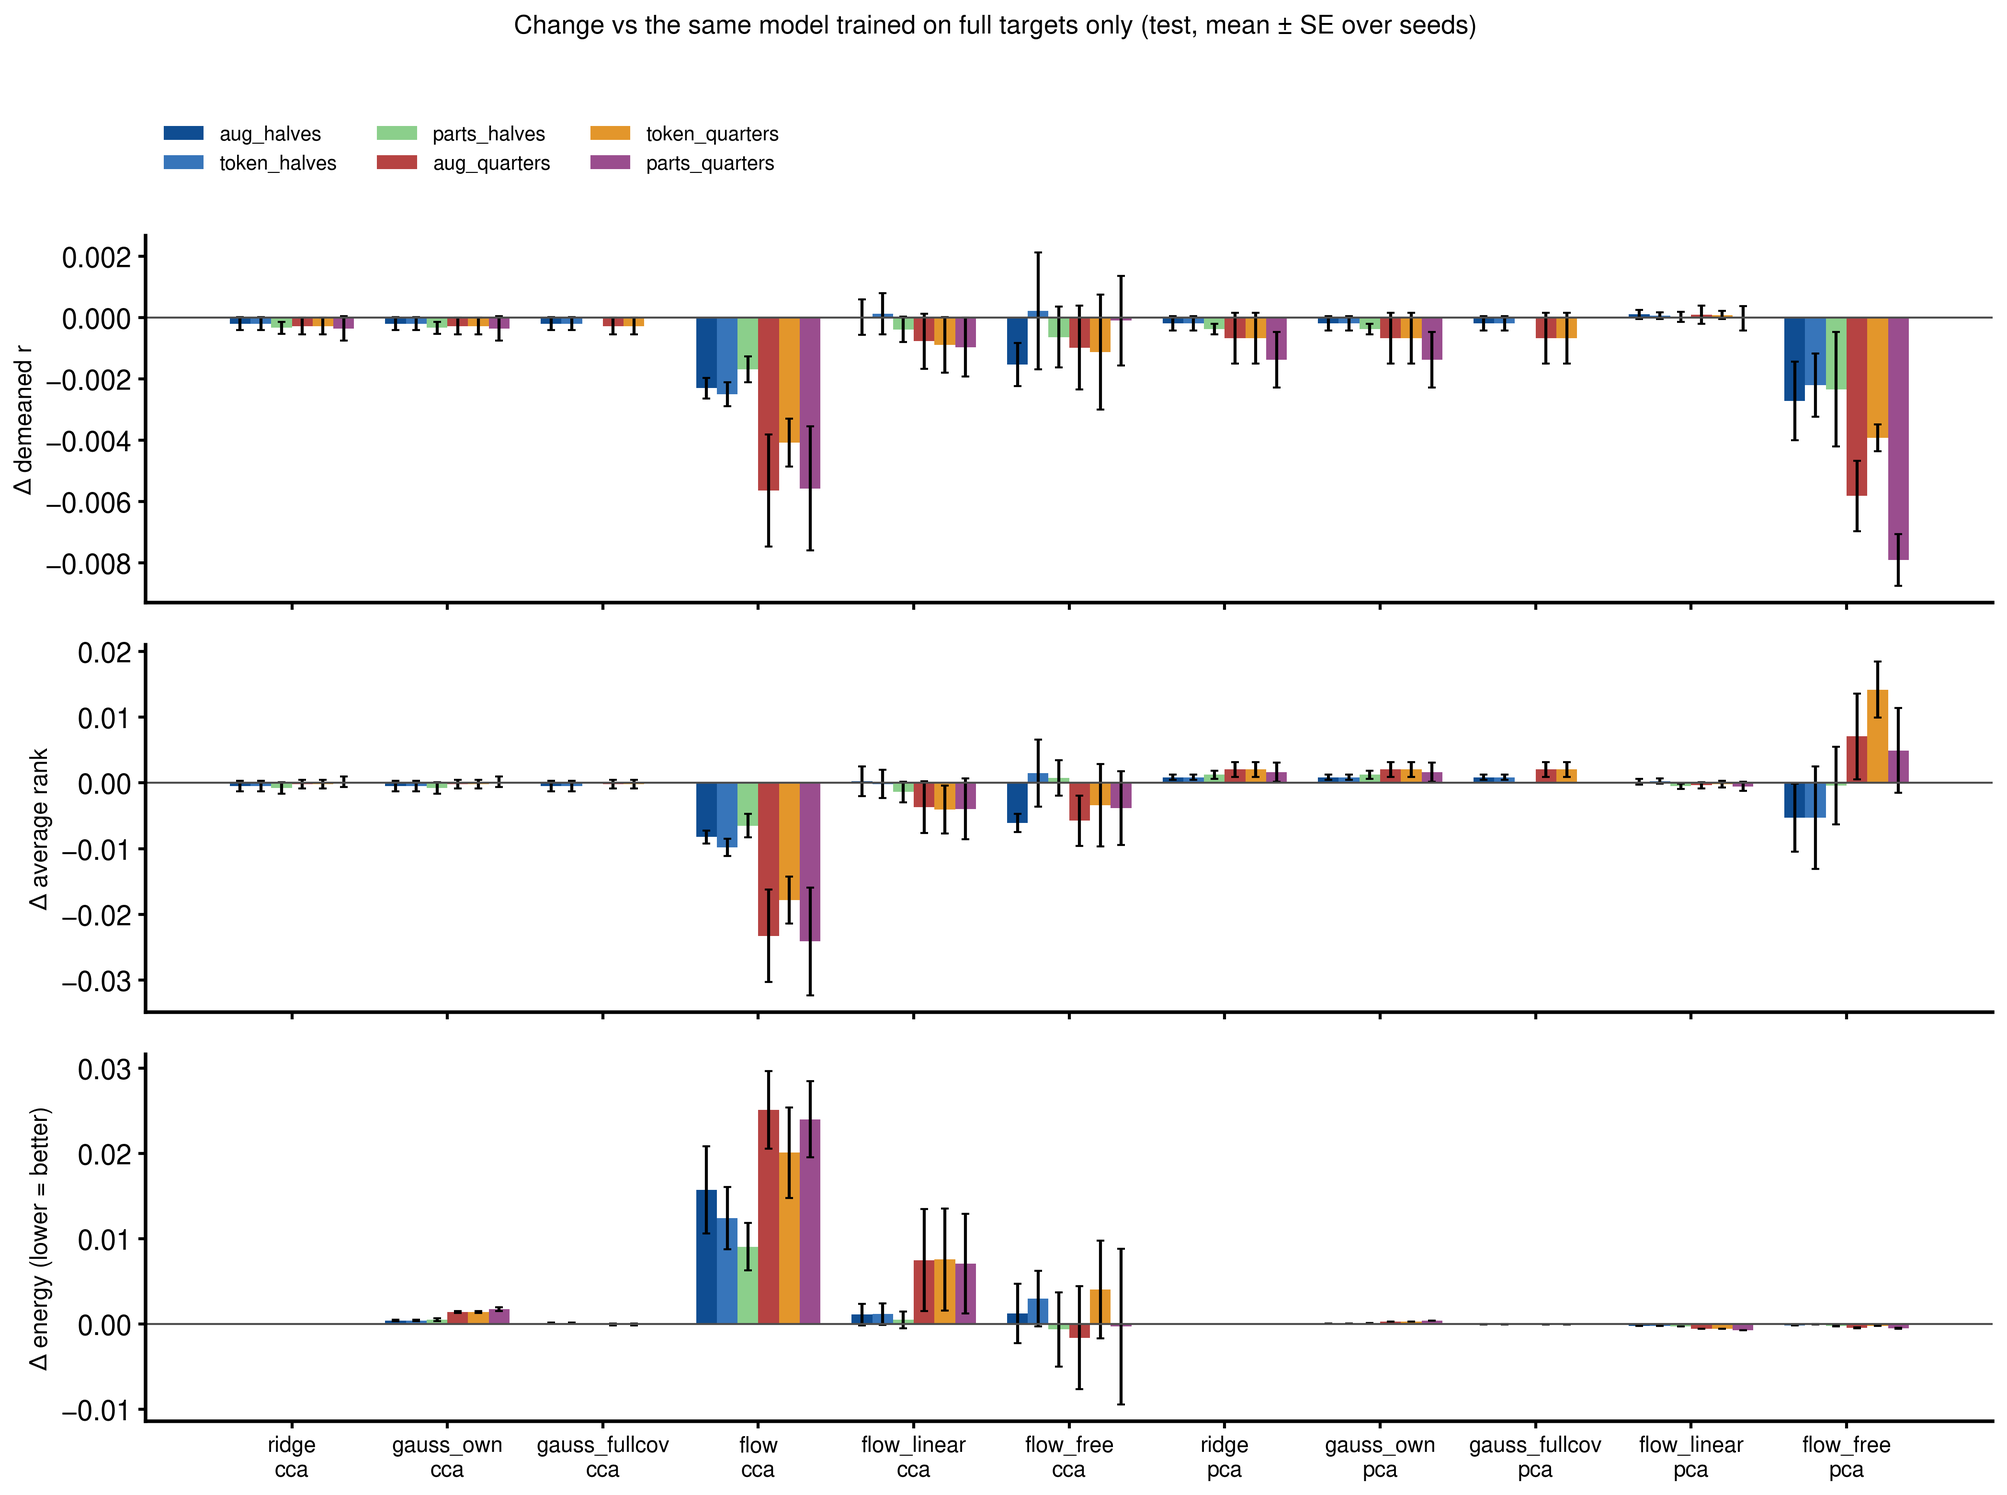
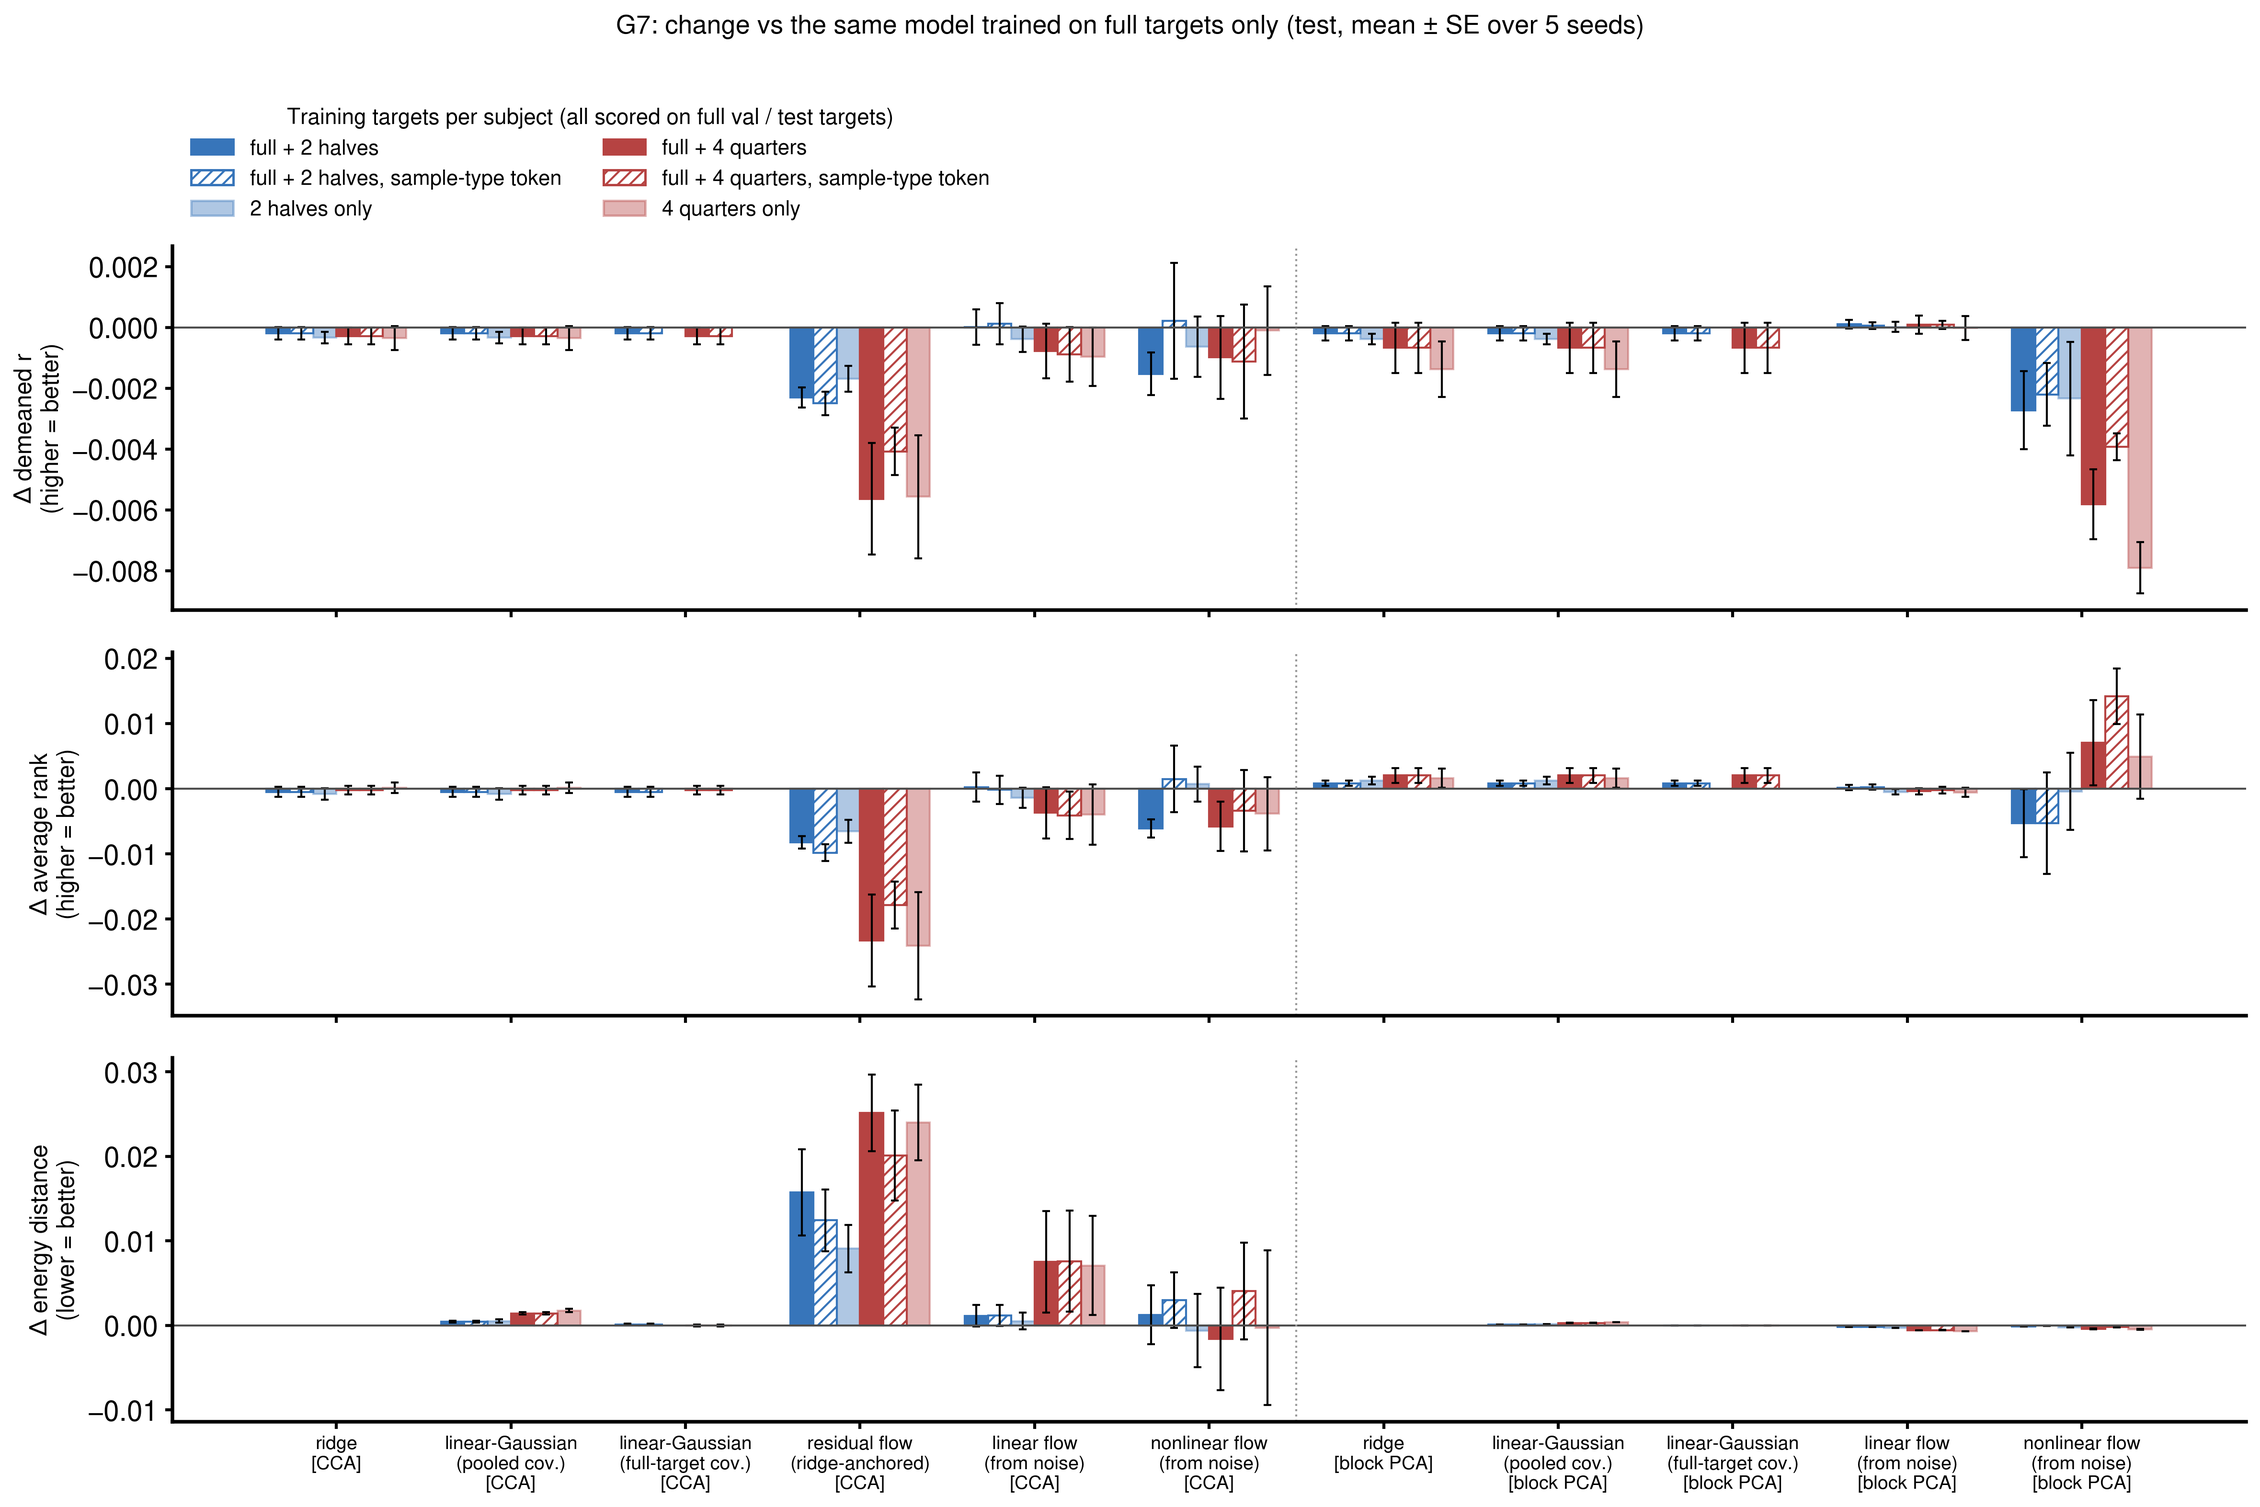
windowed_fc_gain G7 figures: plain-language arm legend, absolute-value and per-condition figures

diff --git a/scripts/experiments/windowed_fc_gain/analyze_g7.py b/scripts/experiments/windowed_fc_gain/analyze_g7.py
@@ -8,7 +8,8 @@ seeds. G7 passes if an augmented arm of some model has a supported gain over bot
 baseline on a primary metric (demeaned r, average rank, energy) without a supported loss on the other two.
 Regression check: each flow's `none` arm vs its E2.1 record.
 
-    python scripts/experiments/windowed_fc_gain/analyze_g7.py     # -> tables/g7_*.csv, tables/g7_summary.md, figures/fig_g7_*.png
+    python scripts/experiments/windowed_fc_gain/analyze_g7.py     # -> tables/g7_*.csv, tables/g7_summary.md,
+        figures/fig_g7_deltas.png (vs full targets only), fig_g7_absolute.png, fig_g7_conditions.png (per condition)
 """
 import glob
 import json
@@ -96,6 +97,156 @@ def regression_check(df):
     return pd.DataFrame(rows)
 
 
+ARM_LABEL = {"none": "full targets only (= E2.1)",
+             "aug_halves": "full + 2 halves", "token_halves": "full + 2 halves, sample-type token", "parts_halves": "2 halves only",
+             "aug_quarters": "full + 4 quarters", "token_quarters": "full + 4 quarters, sample-type token",
+             "parts_quarters": "4 quarters only"}
+MODEL_LABEL = {"ridge": "ridge", "gauss_own": "linear-Gaussian\n(pooled cov.)", "gauss_fullcov": "linear-Gaussian\n(full-target cov.)",
+               "flow": "residual flow\n(ridge-anchored)", "flow_linear": "linear flow\n(from noise)",
+               "flow_free": "nonlinear flow\n(from noise)"}
+ROUTE_LABEL = {"cca": "CCA latent (32-d)", "pca": "block FC PCA codes (256)"}
+ROUTE_SHORT = {"cca": "CCA", "pca": "block PCA"}
+CONDITIONS = ["rest", "emotion", "gambling", "language", "motor", "relational", "social", "wm"]
+
+
+def arm_style(arm):
+    """Colour by part level (halves blue, quarters red), variant by fill: solid = full + parts, hatched = with the
+    sample-type token, light = parts only; full targets only grey."""
+    if arm == "none":
+        return dict(facecolor="#BDBDBD", edgecolor="#6E6E6E")
+    base = "#3775BA" if arm.endswith("halves") else "#B64342"
+    if arm.startswith("parts"):
+        return dict(facecolor=base, alpha=0.4, edgecolor=base)
+    if arm.startswith("token"):
+        return dict(facecolor="white", edgecolor=base, hatch="////")
+    return dict(facecolor=base, edgecolor=base)
+
+
+def arm_legend(ax, arms, **kw):
+    import matplotlib.patches as mpatches
+    handles = [mpatches.Patch(label=ARM_LABEL[a], linewidth=1.2, **arm_style(a)) for a in arms]
+    return ax.legend(handles=handles, **kw)
+
+
+def collect_conditions():
+    """Per (model, route, arm, seed, condition) test demeaned r."""
+    out = []
+    for f in sorted(RES.glob("closed_seed*.json")):
+        r = json.loads(f.read_text())
+        out += [dict(model="ridge", route=x["route"], arm=x["arm"], seed=r["seed"], condition=x["condition"],
+                     demeaned_pearson=x["demeaned_pearson"]) for x in r["rows"] if x["split"] == "test"]
+    for f in sorted(RES.glob("flow*_seed*.json")):
+        r = json.loads(f.read_text())
+        for arm, a in r["arms"].items():
+            out += [dict(model=r["model"], route=r["route"], arm=arm, seed=r["seed"], condition=x["condition"],
+                         demeaned_pearson=x["demeaned_pearson"]) for x in a["rows"] if x["split"] == "test"]
+    return pd.DataFrame(out)
+
+
+def figures(df, own, plt, rc):
+    arms = [a for a in ARMS if a != "none"]
+    with plt.rc_context(rc):
+        # 1. change vs none
+        fams = [(m, r) for r in ("cca", "pca") for m in ("ridge", "gauss_own", "gauss_fullcov", "flow", "flow_linear", "flow_free")
+                if ((own.model == m) & (own.route == r)).any()]
+        mets = [("demeaned_pearson", "Δ demeaned r\n(higher = better)"), ("avg_rank", "Δ average rank\n(higher = better)"),
+                ("energy", "Δ energy distance\n(lower = better)")]
+        fig, axes = plt.subplots(len(mets), 1, figsize=(max(12, 1.45 * len(fams)), 3.5 * len(mets)), sharex=True)
+        w = 0.8 / len(arms)
+        for ax, (k, lab) in zip(axes, mets):
+            for j, arm in enumerate(arms):
+                for i, (m, r) in enumerate(fams):
+                    o = own[(own.model == m) & (own.route == r) & (own.arm == arm) & (own.metric == k)]
+                    if len(o):
+                        ax.bar(i + (j - (len(arms) - 1) / 2) * w, o.delta.iloc[0], w, yerr=o.se.iloc[0], capsize=2,
+                               linewidth=1.0, error_kw=dict(lw=1), **arm_style(arm))
+            ax.axhline(0, color="0.3", lw=1)
+            ax.set_ylabel(lab, fontsize=12)
+            for i in range(1, len(fams)):
+                if fams[i][1] != fams[i - 1][1]:
+                    ax.axvline(i - 0.5, color="0.6", lw=1, ls=":")
+        axes[-1].set_xticks(range(len(fams)), [f"{MODEL_LABEL[m]}\n[{ROUTE_SHORT[r]}]" for m, r in fams], fontsize=9.5)
+        arm_legend(axes[0], arms, ncol=2, fontsize=10.5, loc="lower left", bbox_to_anchor=(0, 1.02),
+                   title="Training targets per subject (all scored on full val / test targets)", title_fontsize=11)
+        fig.suptitle("G7: change vs the same model trained on full targets only (test, mean ± SE over 5 seeds)", fontsize=13, y=1.0)
+        fig.tight_layout()
+        fig.savefig(FIG / "fig_g7_deltas.png", dpi=300, bbox_inches="tight", facecolor="white")
+        plt.close(fig)
+
+        # 2. absolute values, linear baseline as reference
+        panels = [("demeaned_pearson", "test demeaned r\n(mean of 8 conditions)", ["ridge", "flow", "flow_linear", "flow_free"], "ridge"),
+                  ("avg_rank", "test average rank\n(chance 0.5)", ["ridge", "flow", "flow_linear", "flow_free"], "ridge"),
+                  ("energy", "energy distance to the\nsubject's 8 encodings (lower = better)",
+                   ["gauss_own", "gauss_fullcov", "flow", "flow_linear", "flow_free"], "gauss_own")]
+        fig, axes = plt.subplots(2, 3, figsize=(22, 10.5))
+        w = 0.85 / len(ARMS)
+        for ri, route in enumerate(("cca", "pca")):
+            for ci, (k, lab, models, ref) in enumerate(panels):
+                ax = axes[ri, ci]
+                models = [m for m in models if ((df.model == m) & (df.route == route)).any()]
+                vals = []
+                for i, m in enumerate(models):
+                    for j, arm in enumerate(ARMS):
+                        g = df[(df.model == m) & (df.route == route) & (df.arm == arm)][k].dropna()
+                        if g.empty:
+                            continue
+                        x = i + (j - (len(ARMS) - 1) / 2) * w
+                        ax.bar(x, g.mean(), w, linewidth=1.0, **arm_style(arm))
+                        ax.scatter(np.full(len(g), x), g, s=6, color="black", zorder=3)
+                        vals += list(g)
+                b = df[(df.model == ref) & (df.route == route) & (df.arm == "none")][k].mean()
+                ax.axhline(b, color="black", ls="--", lw=1.2, label=f"linear baseline ({MODEL_LABEL[ref].split(chr(10))[0]}, full targets)")
+                lo, hi = min(vals + [b]), max(vals + [b])
+                pad = (hi - lo) * 0.12 or 0.01
+                ax.set_ylim(lo - pad, hi + pad)
+                ax.set_xticks(range(len(models)), [MODEL_LABEL[m] for m in models], fontsize=10)
+                ax.set_ylabel(lab, fontsize=11)
+                if ci == 0:
+                    ax.set_title(ROUTE_LABEL[route], loc="left", fontsize=13, fontweight="bold")
+                ax.legend(fontsize=9, loc="best")
+        arm_legend(axes[0, 0], ARMS, ncol=4, fontsize=10.5, loc="lower left", bbox_to_anchor=(0, 1.12),
+                   title="Training targets per subject (dots: seeds; y-axes zoomed)", title_fontsize=11)
+        axes[0, 0].add_artist(axes[0, 0].get_legend())
+        fig.suptitle("G7: SC → FC latent models trained with part samples, absolute test values", fontsize=14, y=1.06)
+        fig.tight_layout()
+        fig.savefig(FIG / "fig_g7_absolute.png", dpi=300, bbox_inches="tight", facecolor="white")
+        plt.close(fig)
+
+        # 3. per-condition change in demeaned r (heatmap)
+        cd = collect_conditions()
+        if cd.empty:
+            return
+        base = cd[cd.arm == "none"].set_index(["model", "route", "seed", "condition"]).demeaned_pearson
+        cd = cd[cd.arm != "none"].copy()
+        cd["delta"] = cd.demeaned_pearson.to_numpy() - base.reindex(pd.MultiIndex.from_frame(cd[["model", "route", "seed", "condition"]])).to_numpy()
+        fig, axes = plt.subplots(1, 2, figsize=(17, 12), sharey=True, gridspec_kw=dict(wspace=0.04))
+        vmax = float(np.nanpercentile(np.abs(cd.groupby(["model", "route", "arm", "condition"]).delta.mean()), 98))
+        keys = [(m, arm) for m in ("ridge", "flow", "flow_linear", "flow_free") for arm in arms]
+        labels = [f"{MODEL_LABEL[m].replace(chr(10), ' ')} · {ARM_LABEL[arm]}" for m, arm in keys]
+        for ax, route in zip(axes, ("cca", "pca")):
+            M = np.full((len(keys), len(CONDITIONS)), np.nan)
+            for i, (m, arm) in enumerate(keys):
+                g = cd[(cd.model == m) & (cd.route == route) & (cd.arm == arm)]
+                if len(g):
+                    M[i] = g.groupby("condition").delta.mean().reindex(CONDITIONS).to_numpy()
+            ax.imshow(np.isnan(M)[..., None] * np.array([0.92, 0.92, 0.92]) + ~np.isnan(M)[..., None], aspect="auto")
+            im = ax.imshow(np.ma.masked_invalid(M), cmap="RdBu", vmin=-vmax, vmax=vmax, aspect="auto")
+            for (i, j), v in np.ndenumerate(M):
+                ax.text(j, i, "n/a" if np.isnan(v) else f"{v * 1000:+.1f}", ha="center", va="center", fontsize=7.5,
+                        color="0.5" if np.isnan(v) else ("white" if abs(v) > 0.6 * vmax else "black"))
+            ax.set_xticks(range(len(CONDITIONS)), CONDITIONS, rotation=30, ha="right", fontsize=11)
+            for i in range(1, len(keys)):
+                if keys[i][0] != keys[i - 1][0]:
+                    ax.axhline(i - 0.5, color="black", lw=1.2)
+            ax.set_title(ROUTE_LABEL[route], fontsize=13, fontweight="bold")
+        axes[0].set_yticks(range(len(labels)), labels, fontsize=9)
+        cb = fig.colorbar(im, ax=axes, shrink=0.6, pad=0.015)
+        cb.set_label("Δ test demeaned r vs full targets only (blue = better); cells × 1000", fontsize=11)
+        fig.suptitle("G7: per-condition change in demeaned r (mean over 5 seeds)", fontsize=14)
+        fig.savefig(FIG / "fig_g7_conditions.png", dpi=300, bbox_inches="tight", facecolor="white")
+        plt.close(fig)
+
+
 def main():
     sys.path.insert(0, str(REPO_ROOT / "scripts" / "experiments" / "model_benchmark"))
     import matplotlib
@@ -170,30 +321,7 @@ def main():
         md += [f"| {r.model} | {r.route} | {r.dr_e21:.4f} | {r.dr_g7:.4f} | {r.energy_e21:.4f} | {r.energy_g7:.4f} |" for r in rg.itertuples()]
     (TAB / "g7_summary.md").write_text("\n".join(md) + "\n")
 
-    with plt.rc_context(mb.FIG_RC):
-        fams = [(m, r) for r in ("cca", "pca") for m in ("ridge", "gauss_own", "gauss_fullcov", "flow", "flow_linear", "flow_free")
-                if ((own.model == m) & (own.route == r)).any()]
-        mets = [("demeaned_pearson", "Δ demeaned r"), ("avg_rank", "Δ average rank"), ("energy", "Δ energy (lower = better)")]
-        fig, axes = plt.subplots(len(mets), 1, figsize=(max(10, 1.3 * len(fams)), 3.4 * len(mets)), sharex=True)
-        arms = [a for a in ARMS if a != "none"]
-        cols = ["#0F4D92", "#3775BA", "#8BCF8B", "#B64342", "#E3962B", "#9A4D8E"]
-        w = 0.8 / len(arms)
-        for ax, (k, lab) in zip(axes, mets):
-            for j, arm in enumerate(arms):
-                xs, ys, es = [], [], []
-                for i, (m, r) in enumerate(fams):
-                    o = own[(own.model == m) & (own.route == r) & (own.arm == arm) & (own.metric == k)]
-                    if len(o):
-                        xs.append(i + (j - (len(arms) - 1) / 2) * w); ys.append(o.delta.iloc[0]); es.append(o.se.iloc[0])
-                ax.bar(xs, ys, w, yerr=es, color=cols[j], label=arm, capsize=2)
-            ax.axhline(0, color="0.3", lw=1)
-            ax.set_ylabel(lab, fontsize=12)
-        axes[-1].set_xticks(range(len(fams)), [f"{m}\n{r}" for m, r in fams], fontsize=11)
-        axes[0].legend(ncol=3, fontsize=10, loc="upper left", bbox_to_anchor=(0, 1.35))
-        fig.suptitle("Change vs the same model trained on full targets only (test, mean ± SE over seeds)", fontsize=13, y=1.02)
-        fig.tight_layout()
-        fig.savefig(FIG / "fig_g7_deltas.png", dpi=300, bbox_inches="tight")
-        plt.close(fig)
+    figures(df, own, plt, mb.FIG_RC)
     print((TAB / "g7_summary.md").read_text())
 
 

diff --git a/scripts/experiments/windowed_fc_gain/windowed_fc_gain.md b/scripts/experiments/windowed_fc_gain/windowed_fc_gain.md
@@ -90,7 +90,8 @@ linear-Gaussian with covariance from all unit residuals (`own`) or full residual
 E2.1's residual flow (CCA), linear and nonlinear un-anchored flows (both routes), retrained at E2.1's selected settings,
 equal optimizer steps per epoch. Code: `build_parts.py`, `g7_common.py`, `run_g7a.py`, `run_g7b.py`, `analyze_g7.py`
 (launchers in `launch/`); tables `tables/g7_summary.md`, `g7_arms.csv`, `g7_paired_vs_none.csv`, `g7_verdicts.csv`,
-`g7_regression_check.csv`; figure `figures/fig_g7_deltas.png`; part cache `results/cache/experiments/windowed_fc_gain/`.
+`g7_regression_check.csv`; figures `figures/fig_g7_deltas.png` (change vs full targets only), `fig_g7_absolute.png`
+(absolute test values, seeds as dots, linear baseline line), `fig_g7_conditions.png` (per-condition change in demeaned r); part cache `results/cache/experiments/windowed_fc_gain/`.
 
 **Checks (G7.0).** Rebuilt full targets align with the cached ones (every subject's own best match; median r 0.99999,
 worst 0.991; the max gap is G1's demean-vs-plain-concatenation difference). The `none` ridge reproduces E2.1's cached
@@ -113,6 +114,11 @@ current settings, so the comparison within G7 is fair.
 G7 (gain over both the model's `none` and the linear baseline, no supported loss): formally met only by ridge /
 `fullcov` Gaussian on block PCA halves, by +0.0008 average rank, which is negligible. **No flow arm passes.** The linear
 baselines remain the best models (CCA: ridge demeaned r 0.0490, Gaussian energy 0.0462; best flow arm 0.0450 / 0.0616).
+
+Per condition (`fig_g7_conditions.png`): ridge and the linear flow move by at most ±0.003 in any condition. The flows'
+losses are largest for rest (residual flow, full + 4 quarters −0.012; nonlinear block-PCA flow, 4 quarters only −0.013).
+The nonlinear CCA flow gains in some tasks (gambling, motor, social up to +0.003) while losing rest and emotion; these
+gains are not consistent across arms.
 
 **Reading.** As gates 2–4 predicted, part samples are the target plus within-run noise: for linear models they average
 back to the full target (no gain); for the flows they add noisy targets that mainly widen or blur what is learned, and
